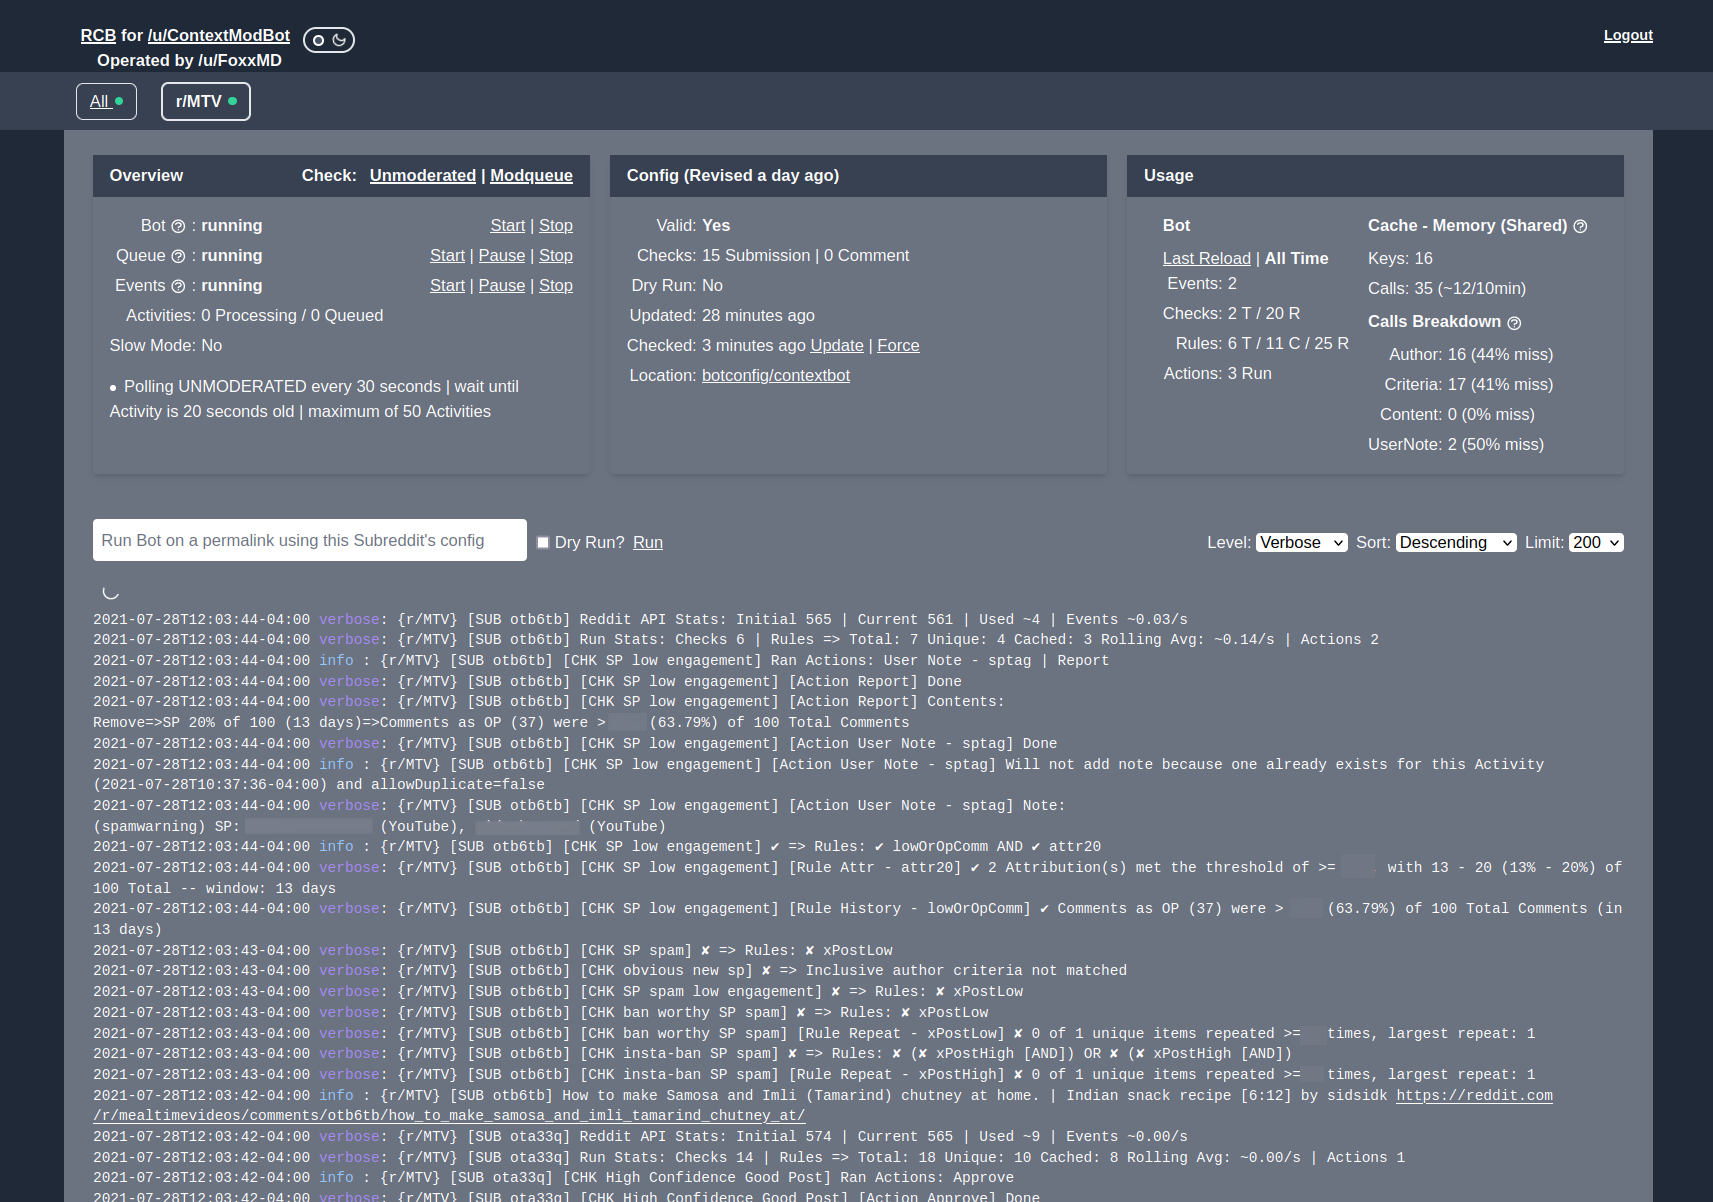
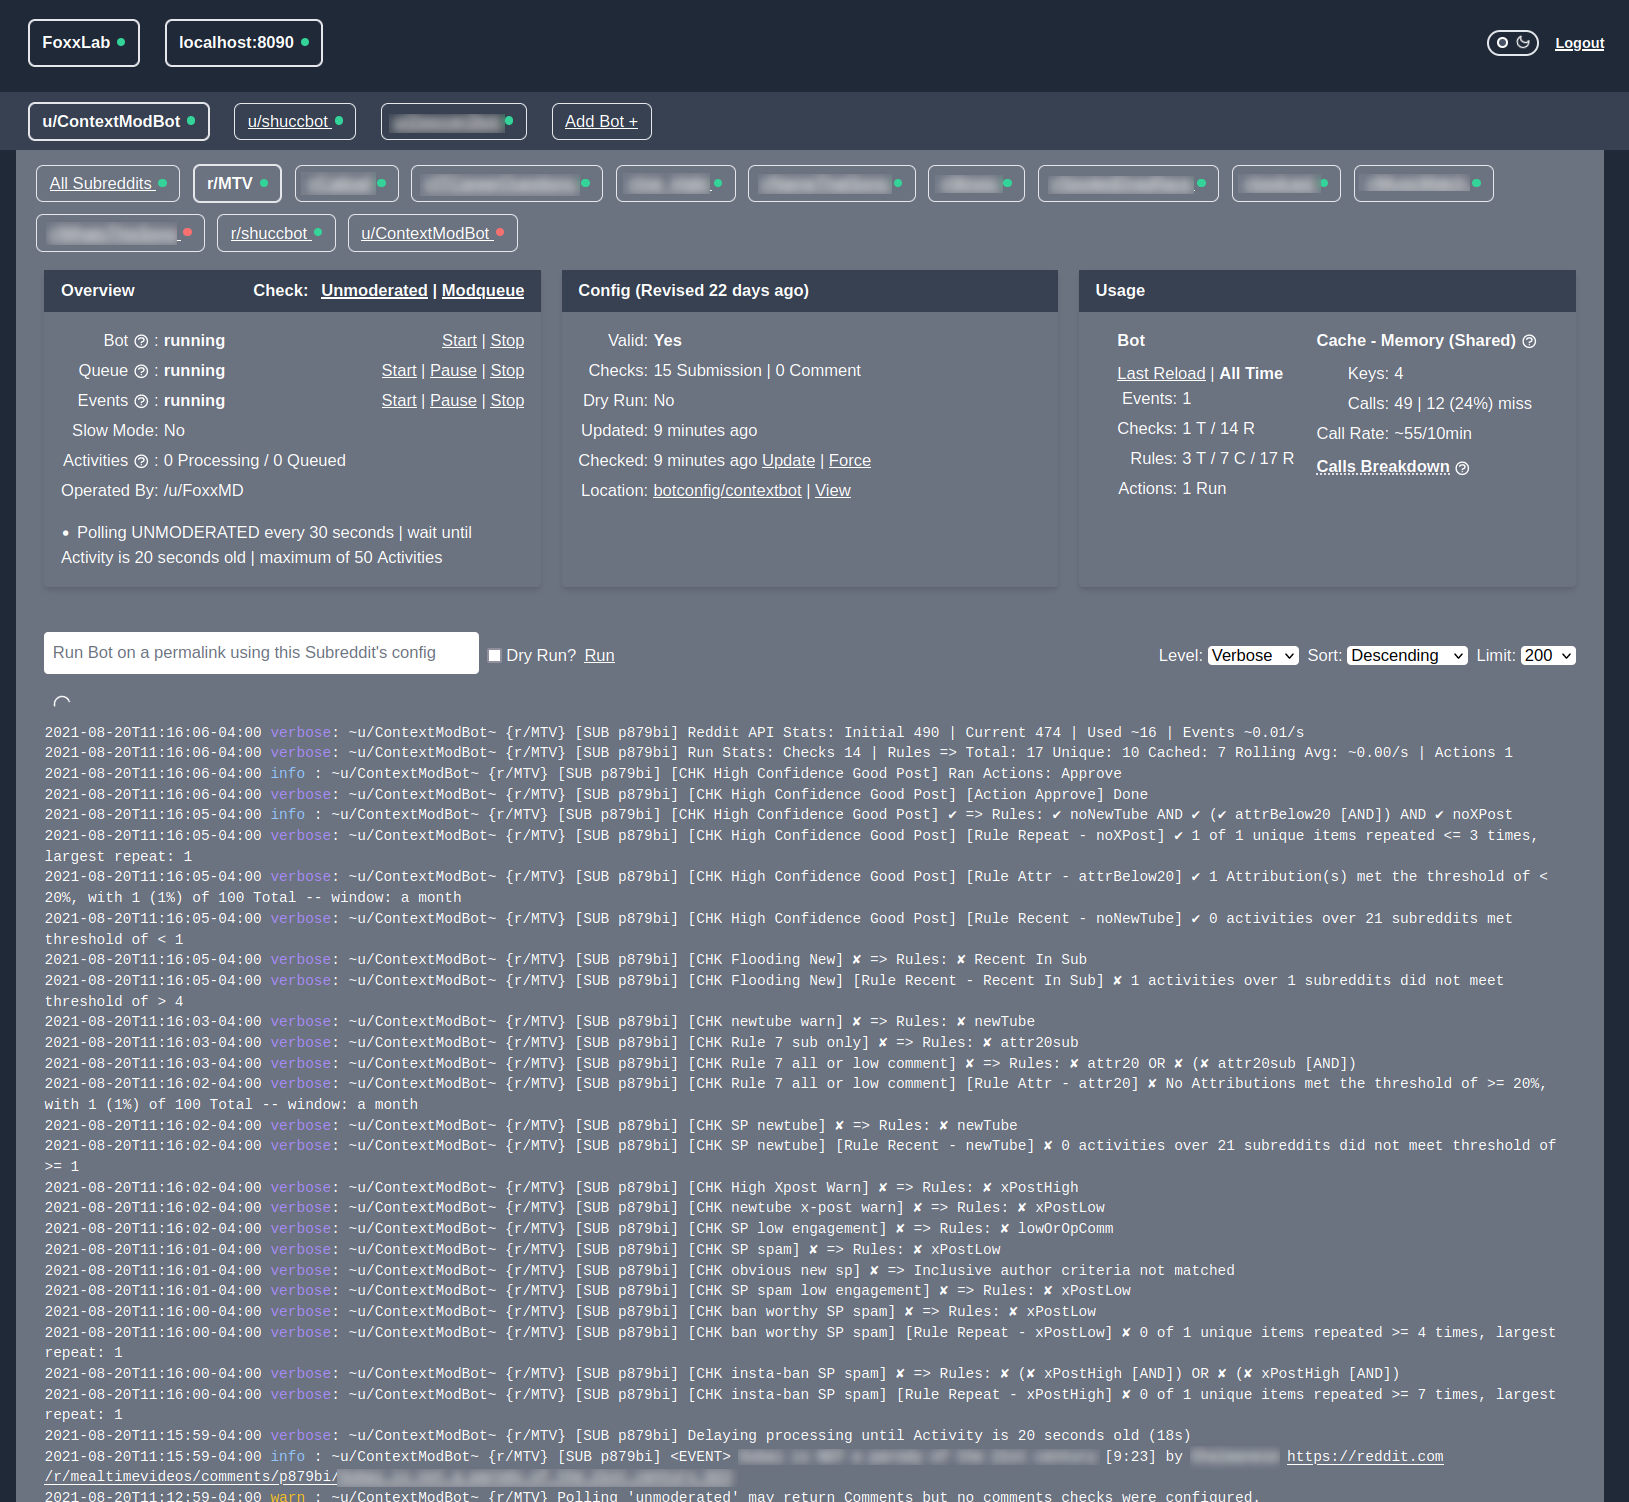
Add more screenshots and information to web ui section

Changed region(s): [[0.0, 0.0, 1.0, 1.0], [0.9208, 0.0, 0.9822, 0.0616]]

diff --git a/README.md b/README.md
@@ -89,9 +89,13 @@ Context Bot's configuration can be written in JSON, [JSON5](https://json5.org/) 
 
 ## Web UI and Screenshots
 
-RCB comes equipped with a web interface designed for use by both moderators and bot operators. Some feature highlights:
+
+### Dashboard
+
+CM comes equipped with a dashboard designed for use by both moderators and bot operators.
 
 * Authentication via Reddit OAuth -- only accessible if you are the bot operator or a moderator of a subreddit the bot moderates
+* Connect to multiple ContextMod instances (specified in configuration)
 * Monitor API usage/rates
 * Monitoring and administration **per subreddit:**
   * Start/stop/pause various bot components
@@ -102,9 +106,30 @@ RCB comes equipped with a web interface designed for use by both moderators and 
 
 ![Subreddit View](docs/screenshots/subredditStatus.jpg)
 
-Additionally, a helper webpage is available to help initial setup of your bot with reddit's oauth authentication. [Learn more about using the oauth helper.](docs/botAuthentication.md#cm-oauth-helper-recommended)
+### Bot Setup/Authentication
+
+A bot oauth helper allows operators to define oauth credentials/permissions and then generate unique, one-time invite links that allow moderators to authenticate their own bots without operator assistance. [Learn more about using the oauth helper.](docs/botAuthentication.md#cm-oauth-helper-recommended)
+
+Operator view/invite link generation:
 
 ![Oauth View](docs/screenshots/oauth.jpg)
+
+Moderator view/invite and authorization:
+
+![Invite View](docs/screenshots/oauth-invite.jpg)
+
+### Configuration Editor
+
+A built-in editor using [monaco-editor](https://microsoft.github.io/monaco-editor/) makes editing configurations easy:
+
+* Automatic JSON syntax validation and formatting
+* Automatic Schema (subreddit or operator) validation
+* All properties are annotated via hover popups
+* Unauthenticated view via `yourdomain.com/config`
+* Authenticated view loads subreddit configurations by simple link found on the subreddit dashboard
+* Switch schemas to edit either subreddit or operator configurations
+
+![Configuration View](docs/screenshots/editor.jpg)
 
 ## License
 
